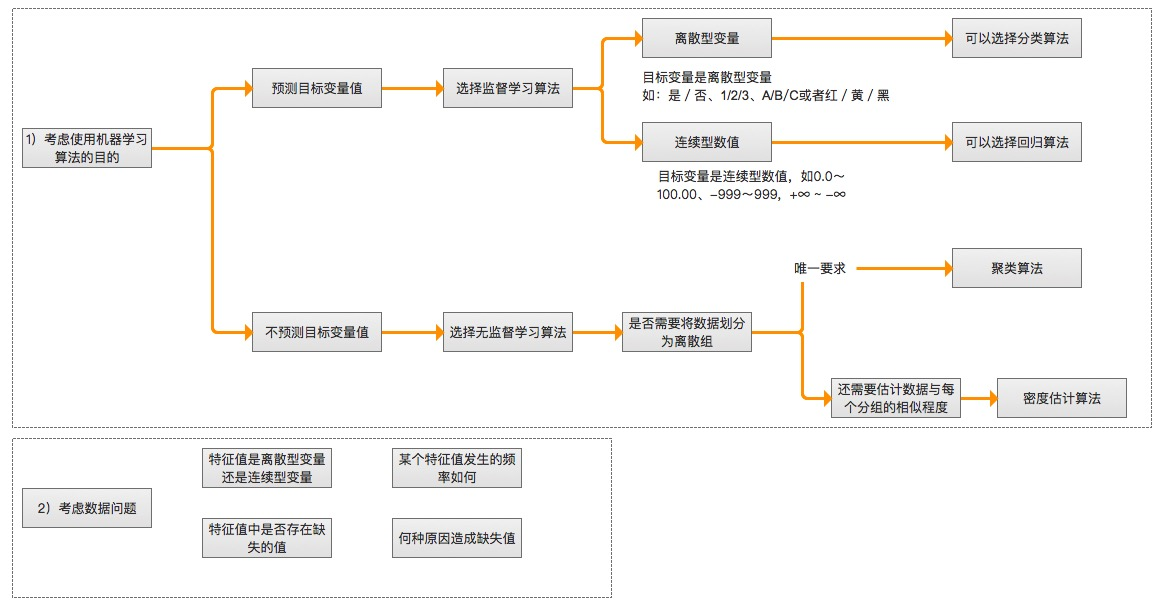
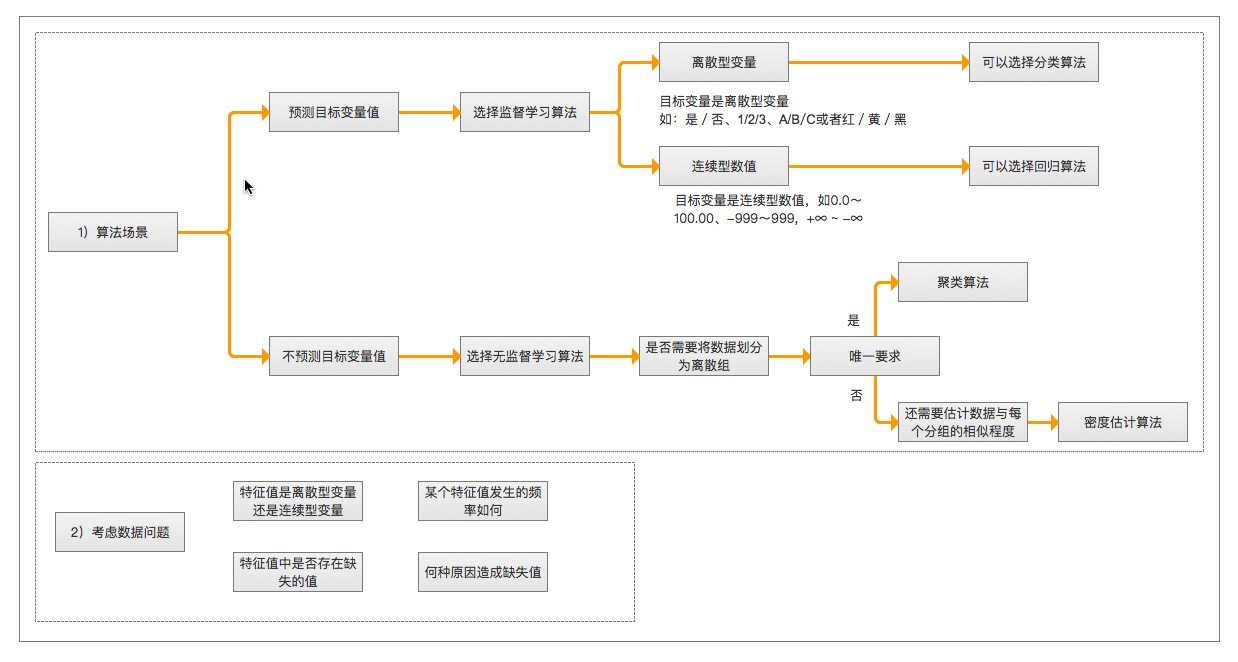
更新1.机器学习基础.md

Changed region(s): [[0.0, 0.0, 0.9871, 0.6875], [0.0, 0.6875, 0.5244, 0.9688]]

diff --git a/docs/6.支持向量机.md b/docs/6.支持向量机.md
@@ -3,16 +3,45 @@
 
 ![支持向量机_首页](/images/6.SVM/SVM_1.jpg)
 
-## 支持向量机的概念
+## 支持向量机 概述
 
-> 支持向量机(Support Vector Machines, SVM)
-
+支持向量机(Support Vector Machines, SVM)：是一种机器学习算法。
 * 支持向量(Support Vector)就是离分隔超平面最近的那些点。
 * 机(Machine)就是表示一种算法，而不是表示机器。
+
+## 支持向量机 背景
+
+* 如果把所有的点看作地雷，那么我们(超平面)得找到最近所有的地雷，并保证我们离它最远。
+* 所以：选择D会比B、C分隔的效果要好很多。
+
+![线性可分](/images/6.SVM/SVM_3_linearly-separable.jpg)
+
+
+## 支持向量机 原理
+
+### 支持向量机 工作原理
+
+![k_2](/images/6.SVM/k_2.jpg "k_2")
+
+对于上述的苹果和香蕉，我们想象为2中水果类型的炸弹。（保证距离最近的炸弹，距离它们最远）
+
+1. 寻找最大分类间距
+2. 转而通过拉格朗日函数求优化的问题
+
+### 基础介绍
+
 * SVM有很多种实现，最流行的一种实现是： `序列最小优化(Sequential Minimal Optimization, SMO)算法`。
 * 下面还会介绍一种称为`核函数(kernel)`的方式将SVM扩展到更多数据集上。
-* 实战项目：回顾第2章中手写识别的案例，并考察其能否通过SVM来提高识别的效果。
 * 注意：`SVM几何含义比较直观，但其算法实现较复杂，牵扯大量数学公式的推导。`
+
+
+* 数据可以通过画一条直线就可以将它们完全分开，这组数据叫`线性可分(linearly separable)`数据，而这条分隔直线称为`分隔超平面(separating hyperplane)`。
+* 如果数据集上升到1024维呢？那么需要1023维来分隔数据集，也就说需要N-1维的对象来分隔，这个对象叫做`超平面(hyperlane)`，也就是分类的决策边界。
+
+![分隔超平面](/images/6.SVM/SVM_2_separating-hyperplane.jpg)
+
+
+
 
 ```
 优点：泛化（由具体的、个别的扩大为一般的，就是说：模型训练完后的新样本）错误率低，计算开销不大，结果易理解。
@@ -20,12 +49,13 @@
 使用数据类型：数值型和标称型数据。
 ```
 
-## 基于最大间隔分隔数据
+## 支持向量机 项目实战
 
-* 数据可以通过画一条直线就可以将它们完全分开，这组数据叫`线性可分(linearly separable)`数据。
-* 而这条分隔直线称为`分隔超平面(separating hyperplane)`。
-* 如果数据集上升到1024维呢？那么需要1023维来分隔数据集，也就说需要N-1维的对象来分隔，这个对象叫做`超平面(hyperlane)`，也就是分类的决策边界。
-* ![分隔超平面](/images/6.SVM/SVM_2_separating-hyperplane.jpg)
+### 项目实战: 手写数字识别的优化
+
+
+
+
 
 ## 寻找最大间隔
 
@@ -51,10 +81,6 @@ This is the simplest kind of SVM (Called an LSVM) Support Vectors are those data
 4. 有一些理论，这是一件好事。
 5. 通常它的工作非常好。
 ```
-
-* 选择D会比B、C分隔的效果要好很多，原因是上述的5个结论。
-* 如果把所有的点看作地雷，那么我们(超平面)得找到最近所有的地雷，并保证我们离它最远。
-![线性可分](/images/6.SVM/SVM_3_linearly-separable.jpg)
 
 ### 怎么寻找最大间隔
 

diff --git a/docs/1.机器学习基础.md b/docs/1.机器学习基础.md
@@ -9,15 +9,15 @@
 1. 获取海量的数据
 2. 从海量数据中获取有用的信息
 
-我们会利用计算机来彰显数据背后的真实含义，这才是`机器学习`的真实含义。
+我们会利用计算机来彰显数据背后的真实含义，这才是`机器学习`的意义。
 
 ## 机器学习 场景
 
 ```
 例如：识别动物猫
 模式识别（官方标准）：人们通过大量的经验，得到结论，从而判断它就是猫。
-机器学习（数据学习）：人通过阅读进行学习，观察它会叫、小眼睛、两只耳朵、四条腿、一条尾巴，得到结论，从而判断它就是猫。
-深度学习（深入数据）：人通过深度了解它，发现它会'喵喵'的叫、与同类的猫科动物很类似，得到结论，从而判断它就是猫。（深度学习常用领域：语音、图形）
+机器学习（数据学习）：人们通过阅读进行学习，观察它会叫、小眼睛、两只耳朵、四条腿、一条尾巴，得到结论，从而判断它就是猫。
+深度学习（深入数据）：人们通过深入了解它，发现它会'喵喵'的叫、与同类的猫科动物很类似，得到结论，从而判断它就是猫。（深度学习常用领域：语音识别、图像识别）
 
 模式识别（pattern recognition）: 模式识别是最古老的（作为一个术语而言，可以说是很过时的）。
     我们把环境与客体统称为“模式”，识别是对模式的一种认知，是如何让一个计算机程序去做一些看起来很“智能”的事情。
@@ -40,7 +40,7 @@ http://baike.baidu.com/link?url=76P-uA4EBrC3G-I__P1tqeO7eoDS709Kp4wYuHxc7GNkz_xn
 * 垃圾邮件: 会自动的过滤垃圾广告邮件到垃圾箱内。
 * 超市优惠券: 你会发现，你在购买小孩子尿布的时候，售货员会赠送你一张优惠券可以兑换6罐啤酒。
 * 邮局邮寄: 手写软件自动识别寄送贺卡的地址。
-* 申请贷款 或 进入赌场: 通过你最近的金融活动信息进行综合评定，决定你是否合格。
+* 申请贷款: 通过你最近的金融活动信息进行综合评定，决定你是否合格。
 
 
 ## 机器学习 组成
@@ -84,8 +84,8 @@ http://baike.baidu.com/link?url=76P-uA4EBrC3G-I__P1tqeO7eoDS709Kp4wYuHxc7GNkz_xn
 > 选择算法需要考虑的两个问题
 
 1. 算法场景
-    * 预测明天是否下雨，可以选择监督学习算法
-    * 给一群陌生的人进行分组，可以选择无监督学习算法。
+    * 预测明天是否下雨，因为可以用历史的天气情况做预测，所以选择监督学习算法
+    * 给一群陌生的人进行分组，但是我们并没有这些人的类别信息，所以选择无监督学习算法、通过他们身高、体重等特征进行处理。
 2. 需要收集或分析的数据是什么
 
 > 举例
